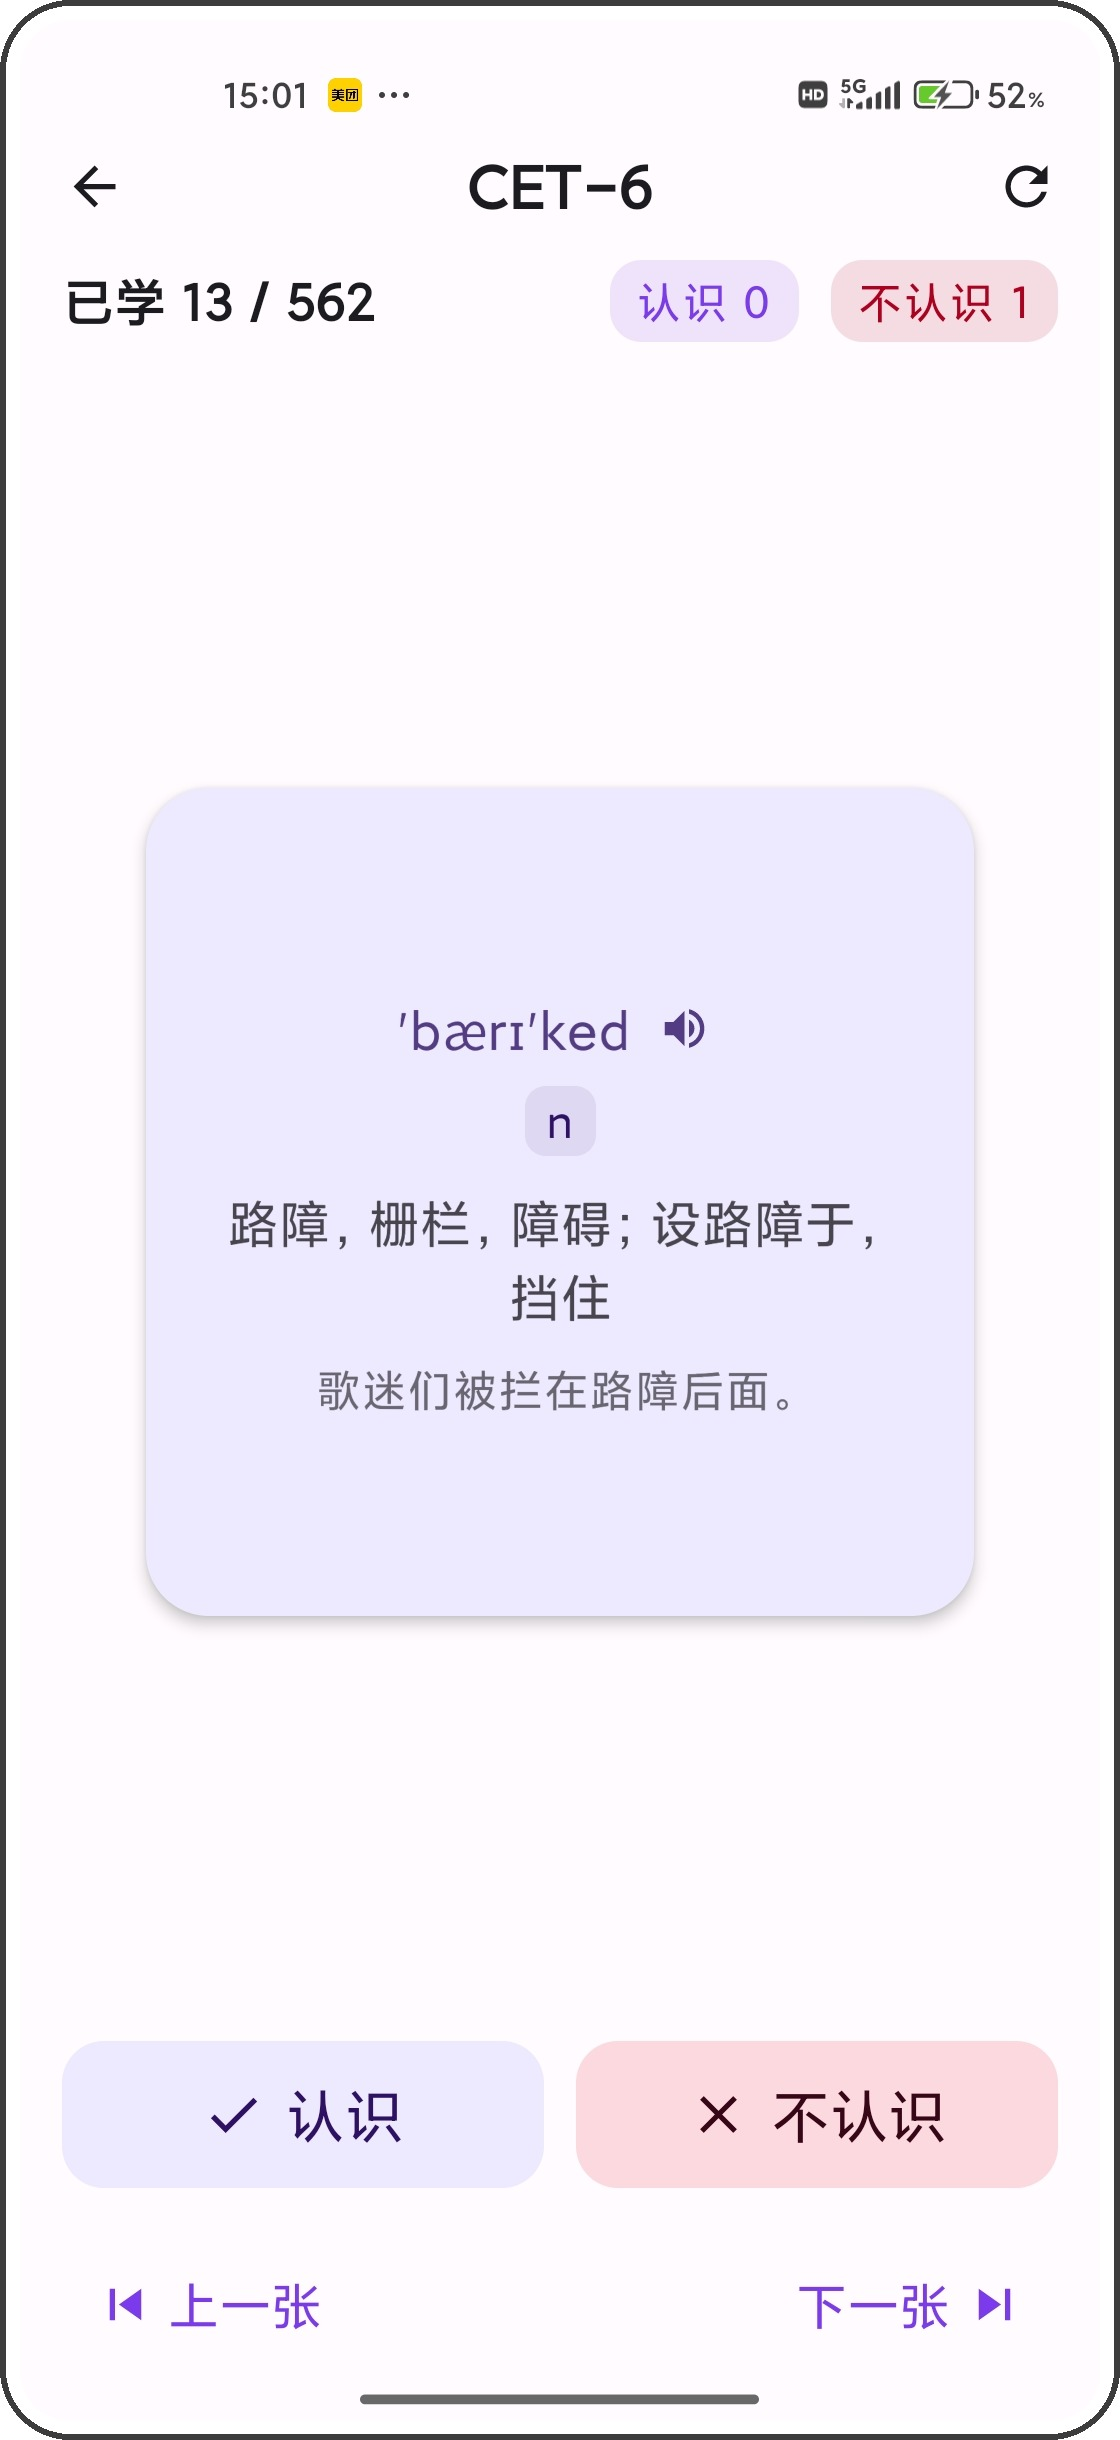
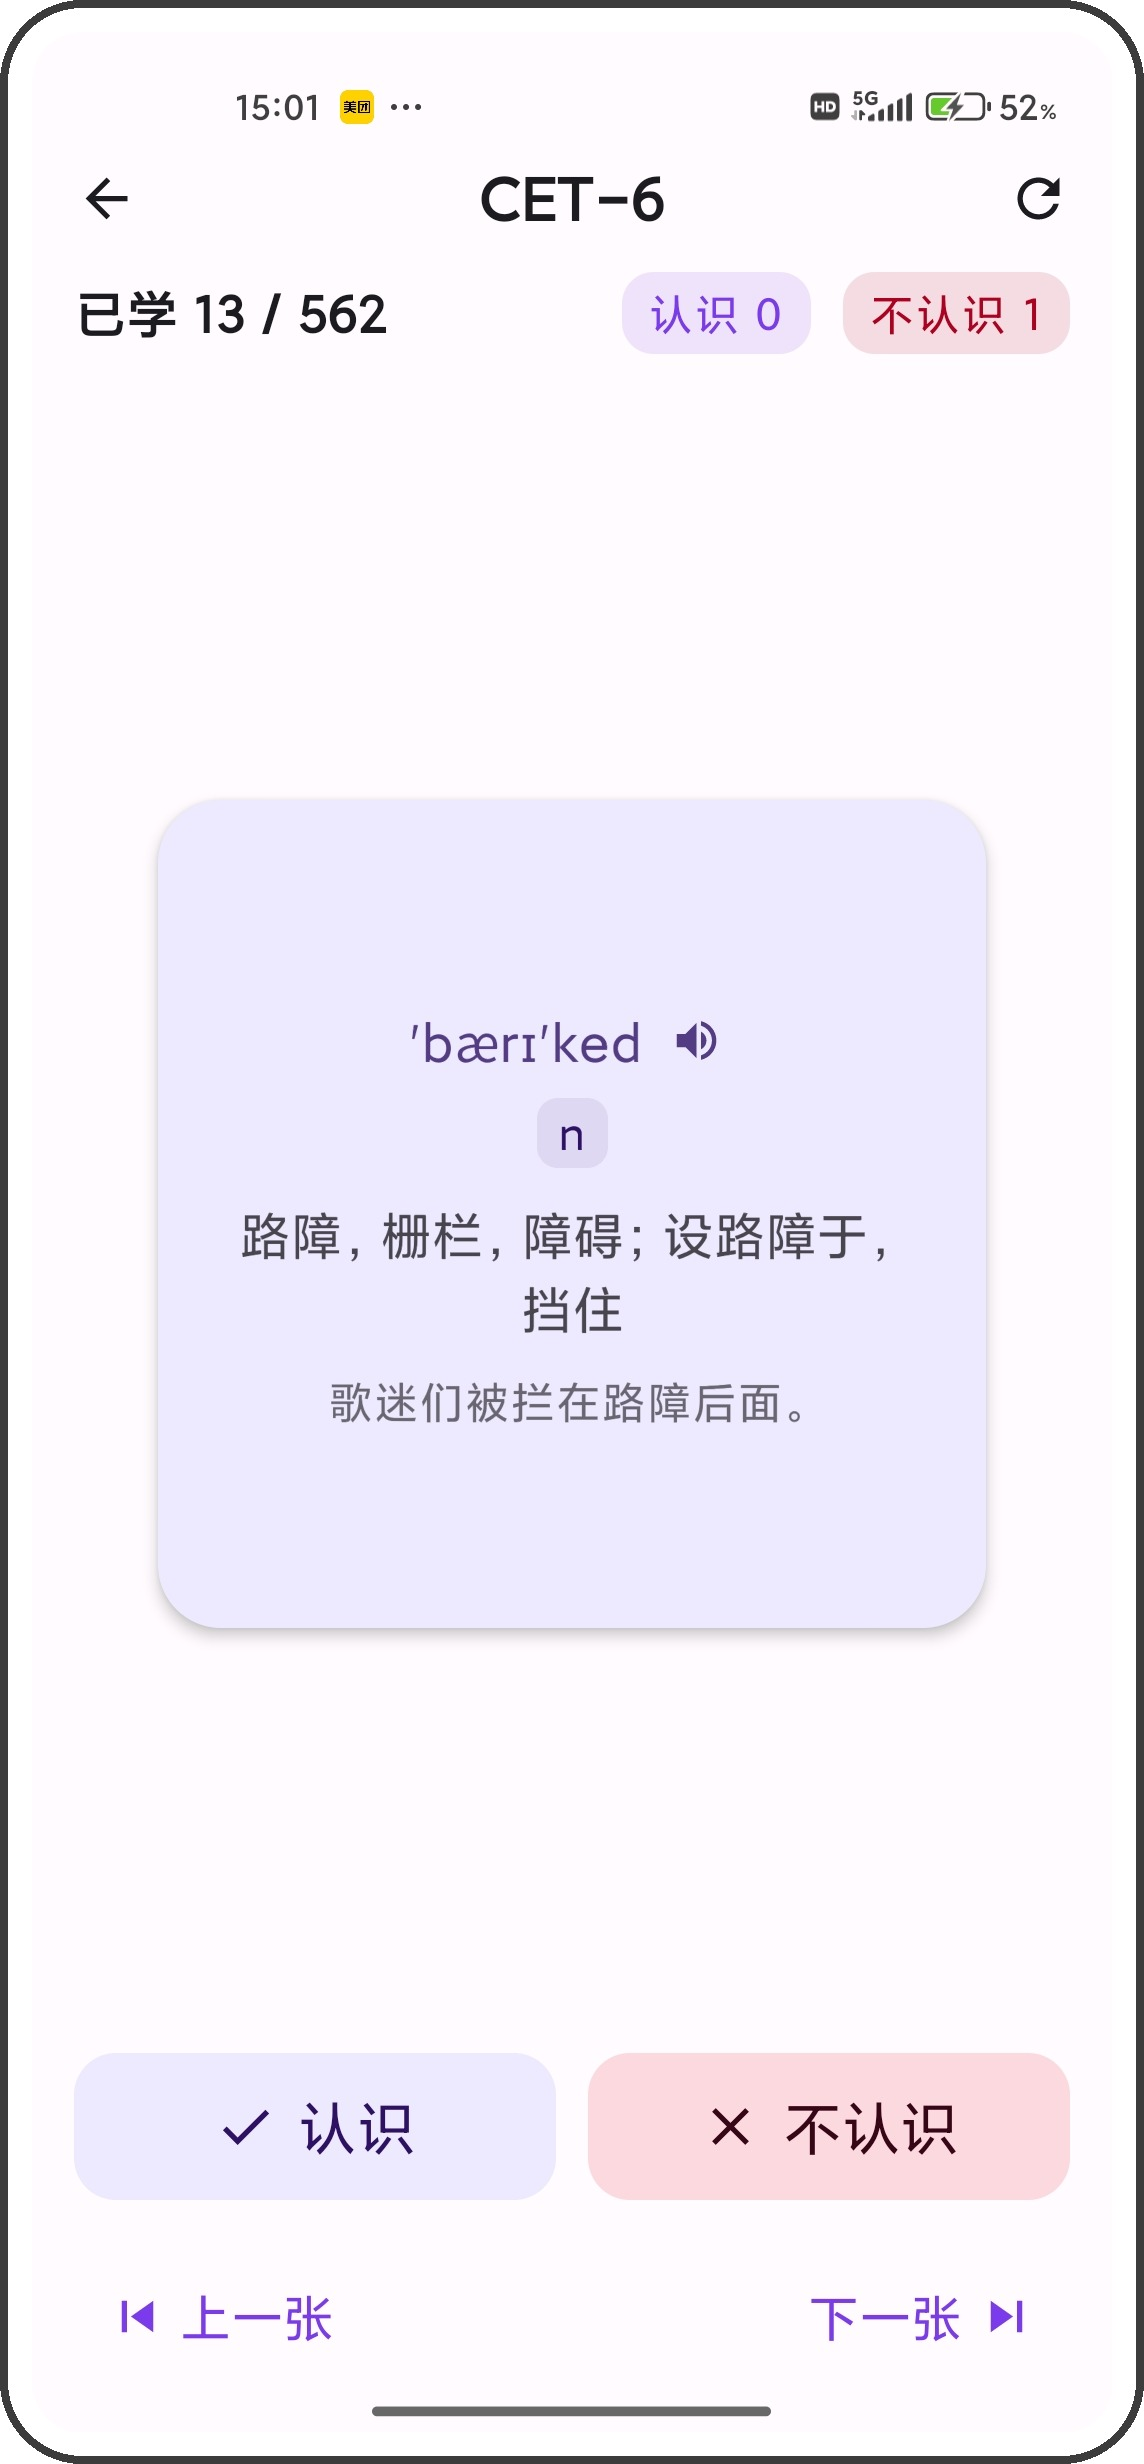
docs(readme): widen phone bezel (margin 20→32, border 6→8)
The previous frame read as a thin outline rather than a phone bezel.
Bumping margin to 32px and line width to 8px makes the frame clearly
proportional to a modern phone, while keeping the same clean look.

diff --git a/scripts/frame_screenshots.py b/scripts/frame_screenshots.py
@@ -11,8 +11,8 @@ from pathlib import Path
 
 SRC_DIR = Path("docs/app-screenshots")
 
-MARGIN = 20            # padding around the screenshot (becomes the border zone)
-BORDER_W = 6           # thickness of the visible border line
+MARGIN = 32            # padding around the screenshot (becomes the border zone)
+BORDER_W = 8           # thickness of the visible border line
 BORDER_COLOR = (60, 60, 60)  # dark gray for clear visibility
 RADIUS = 50            # corner radius of the screenshot itself
 BG = (255, 255, 255)   # background color (white, matches GitHub README)
